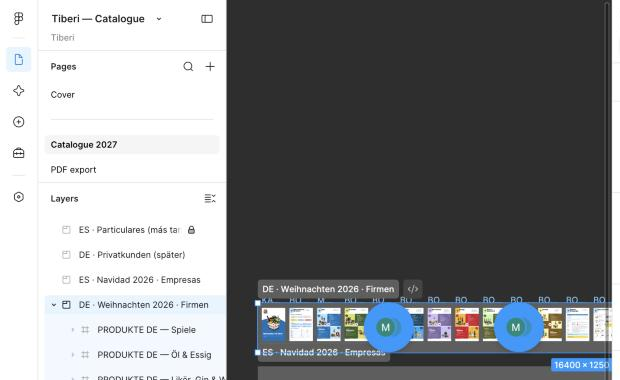
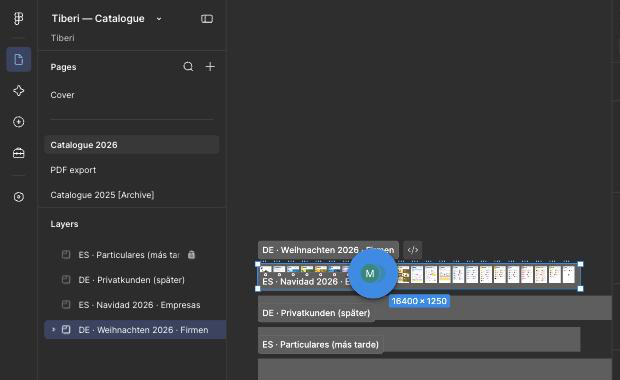
13 Oct: second round of catalogue comments, page renamed Catalogue 2026, PDF guide screenshots

diff --git a/export-pdf/index.html b/export-pdf/index.html
@@ -216,31 +216,31 @@ table.swap col.c2{width:26%}
 <div class="card">
   <h2>1. Open the catalogue</h2>
   <p>Open <a href="https://www.figma.com/design/TTjUQF8HzoVo1I5RE2ljUd/Tiberi-%E2%80%94-Catalogue?node-id=9118-2">Tiberi &ndash; Catalogue</a> in Figma. In the <b>Pages</b> list on the
-  left, click <b>Catalogue 2027</b>. Then click the grey label with the catalogue&rsquo;s name above
+  left, click <b>Catalogue 2026</b>. Then click the grey label with the catalogue&rsquo;s name above
   the row of pages, for example <b>DE &middot; Weihnachten 2026 &middot; Firmen</b>. A blue frame
   appears around the whole row.</p>
-  <figure class="shot"><img src="https://trinitykir4-dot.github.io/tiberi-status/assets/export-pdf/1-section.png" alt="Figma with the page Catalogue 2027 open and the German catalogue row selected by its grey name label" width="620" height="380" loading="lazy"><span class="ring" style="left:7.1%;top:34.5%;width:28.6%;height:6%"></span><span class="ring" style="left:41.2%;top:73.2%;width:23.6%;height:5.6%"></span></figure>
+  <figure class="shot"><img src="https://trinitykir4-dot.github.io/tiberi-status/assets/export-pdf/1-section.png" alt="Figma with the page Catalogue 2026 open and the German catalogue row selected by its grey name label" width="620" height="380" loading="lazy"><span class="ring" style="left:7.1%;top:35.5%;width:28.2%;height:5.3%"></span><span class="ring" style="left:41.6%;top:63.4%;width:22.6%;height:4.7%"></span></figure>
 </div>
 
 <div class="card">
   <h2>2. Select the pages and copy them</h2>
   <p>Press <kbd>Enter</kbd> once. Now each page has its own blue frame, and the list under
   <b>Layers</b> turns blue. Press <kbd>Cmd</kbd> + <kbd>C</kbd>.</p>
-  <figure class="shot"><img src="https://trinitykir4-dot.github.io/tiberi-status/assets/export-pdf/2-enter.png" alt="All pages of the German catalogue selected; the Layers list is highlighted blue" width="620" height="380" loading="lazy"><span class="ring" style="left:6.8%;top:82.5%;width:29.6%;height:17%"></span><span class="ring" style="left:41.2%;top:79%;width:57.6%;height:12.5%"></span></figure>
+  <figure class="shot"><img src="https://trinitykir4-dot.github.io/tiberi-status/assets/export-pdf/2-enter.png" alt="All pages of the German catalogue selected; the Layers list is highlighted blue" width="620" height="380" loading="lazy"><span class="ring" style="left:7.1%;top:64.5%;width:29.4%;height:35.5%"></span><span class="ring" style="left:41.6%;top:42.9%;width:51.6%;height:6.6%"></span></figure>
 </div>
 
 <div class="card">
   <h2>3. Go to the PDF export page</h2>
   <p>In the <b>Pages</b> list, click <b>PDF export</b>. If pages from last time are still there,
   press <kbd>Cmd</kbd> + <kbd>A</kbd> and then <kbd>Delete</kbd>, so the page is empty.</p>
-  <figure class="shot"><img src="https://trinitykir4-dot.github.io/tiberi-status/assets/export-pdf/3-pdf-page.png" alt="The empty PDF export page in Figma" width="620" height="380" loading="lazy"><span class="ring" style="left:7.1%;top:37%;width:28.6%;height:6%"></span></figure>
+  <figure class="shot"><img src="https://trinitykir4-dot.github.io/tiberi-status/assets/export-pdf/3-pdf-page.png" alt="The empty PDF export page in Figma" width="620" height="380" loading="lazy"><span class="ring" style="left:7.1%;top:35.5%;width:28.2%;height:5.3%"></span></figure>
 </div>
 
 <div class="card">
   <h2>4. Paste</h2>
   <p>Click the empty grey area once and press <kbd>Cmd</kbd> + <kbd>V</kbd>. The pages appear in one
   row, with no grey frame around them. The Layers list shows them one by one.</p>
-  <figure class="shot"><img src="https://trinitykir4-dot.github.io/tiberi-status/assets/export-pdf/4-pasted.png" alt="The German catalogue pages pasted onto the PDF export page in one row" width="620" height="380" loading="lazy"><span class="ring" style="left:38.7%;top:54%;width:57.8%;height:9%"></span><span class="ring" style="left:6.8%;top:57%;width:30%;height:43%"></span></figure>
+  <figure class="shot"><img src="https://trinitykir4-dot.github.io/tiberi-status/assets/export-pdf/4-pasted.png" alt="The German catalogue pages pasted onto the PDF export page in one row" width="620" height="380" loading="lazy"><span class="ring" style="left:39.4%;top:40.8%;width:56.5%;height:6.6%"></span><span class="ring" style="left:7.1%;top:35.5%;width:29.4%;height:64.5%"></span></figure>
 </div>
 
 <div class="card">

diff --git a/log.html b/log.html
@@ -192,7 +192,7 @@ footer{margin-top:56px;padding-top:22px;border-top:1px solid var(--line);font-si
 </header>
 
 <div class="summary">
-  <p><b>69 working sessions over 15 days.</b> A session is one sitting with one
+  <p><b>70 working sessions over 15 days.</b> A session is one sitting with one
   goal - find the cause of something, build a set of pages, measure a claim before repeating it.
   Some days took one. The 29th of July took twelve.</p>
   <p>Seventy pieces of work have been numbered and tracked so far. The number next to each date
@@ -202,7 +202,7 @@ footer{margin-top:56px;padding-top:22px;border-top:1px solid var(--line);font-si
 </div>
 
 <nav class="jump" aria-label="Jump to a day">
-  <a href="#oct13">13 October <span>2</span></a>
+  <a href="#oct13">13 October <span>3</span></a>
   <a href="#sep04">4 September <span>1</span></a>
   <a href="#aug31">31 August <span>3</span></a>
   <a href="#aug05">5 August <span>3</span></a>
@@ -224,7 +224,7 @@ footer{margin-top:56px;padding-top:22px;border-top:1px solid var(--line);font-si
   <div class="day-when">
     <div class="day-date">13 October</div>
     <div class="day-year">2026</div>
-    <div class="day-count">2 sessions</div>
+    <div class="day-count">3 sessions</div>
   </div>
   <div>
   <h2>The Christmas catalogue for companies moved into the catalogue file, and the box pictures follow your comments</h2>
@@ -235,6 +235,7 @@ footer{margin-top:56px;padding-top:22px;border-top:1px solid var(--line);font-si
     <li><b>On Bio &amp; Natur the oil and the vinegar lead now,</b> with the snack bags behind them to the side. The chorizo on Premium is half again as big, so it matches the Tapas page, and the three Genesis liqueur creams on the large Gemischt box stand together in front.</li>
     <li><b>Two hidden products came back into view.</b> The white wine for the Paella box lay on the canvas behind its page, so nobody could see it in the catalogue. It stands in the picture now. A persimmon hides the same way under the Spanish Del Mar basket and goes in when the Spanish catalogue moves.</li>
     <li><b>The cover keeps 2026,</b> as you said. A new guide shows how to save the catalogue as a PDF yourself, in six steps with pictures. The Spanish catalogue moves once you say it is finished.</li>
+    <li><b>Later that evening your second round of comments was done too.</b> On Premium the chorizo stands on its own at the right and the rest sits in calm rows, like the Gemischt boxes. The small Süßes box moved to the left. The catalogue page in Figma is called Catalogue 2026 now, to match the cover.</li>
   </ul>
   </div>
 </article>

diff --git a/index.html b/index.html
@@ -459,7 +459,13 @@ footer{margin-top:56px;padding-top:22px;border-top:1px solid var(--line);
     <li><b>Two pictures could not grow without moving things around.</b> On the small Süßes box
     the bottle already touches the price circle, and the small Gemischt strip is only as tall as
     its bottle. Tell Kir if you want those two rearranged.</li>
+    <li><b>Your second round of comments is done.</b> On Premium the chorizo now stands on its
+    own at the right, and the cheeses, jars and turrón sit in calm rows next to it, the way the
+    Gemischt boxes look. On Süßes Valencia the whole small box moved to the left.</li>
     <li><b>The cover keeps 2026,</b> as you said: this catalogue covers this Christmas.</li>
+    <li><b>The catalogue page in Figma is called Catalogue 2026 now,</b> to match the cover.
+    Last year&rsquo;s catalogue is under Catalogue 2025 [Archive]. The PDF guide shows the new
+    name.</li>
     <li><b>You can save the catalogue as a PDF yourself now.</b> Six steps in Figma, about two
     minutes, with a picture for each one. The file has a new page called PDF export for it.</li>
     <li><b>The Spanish catalogue moves once you say it is finished.</b> On 13 October four
